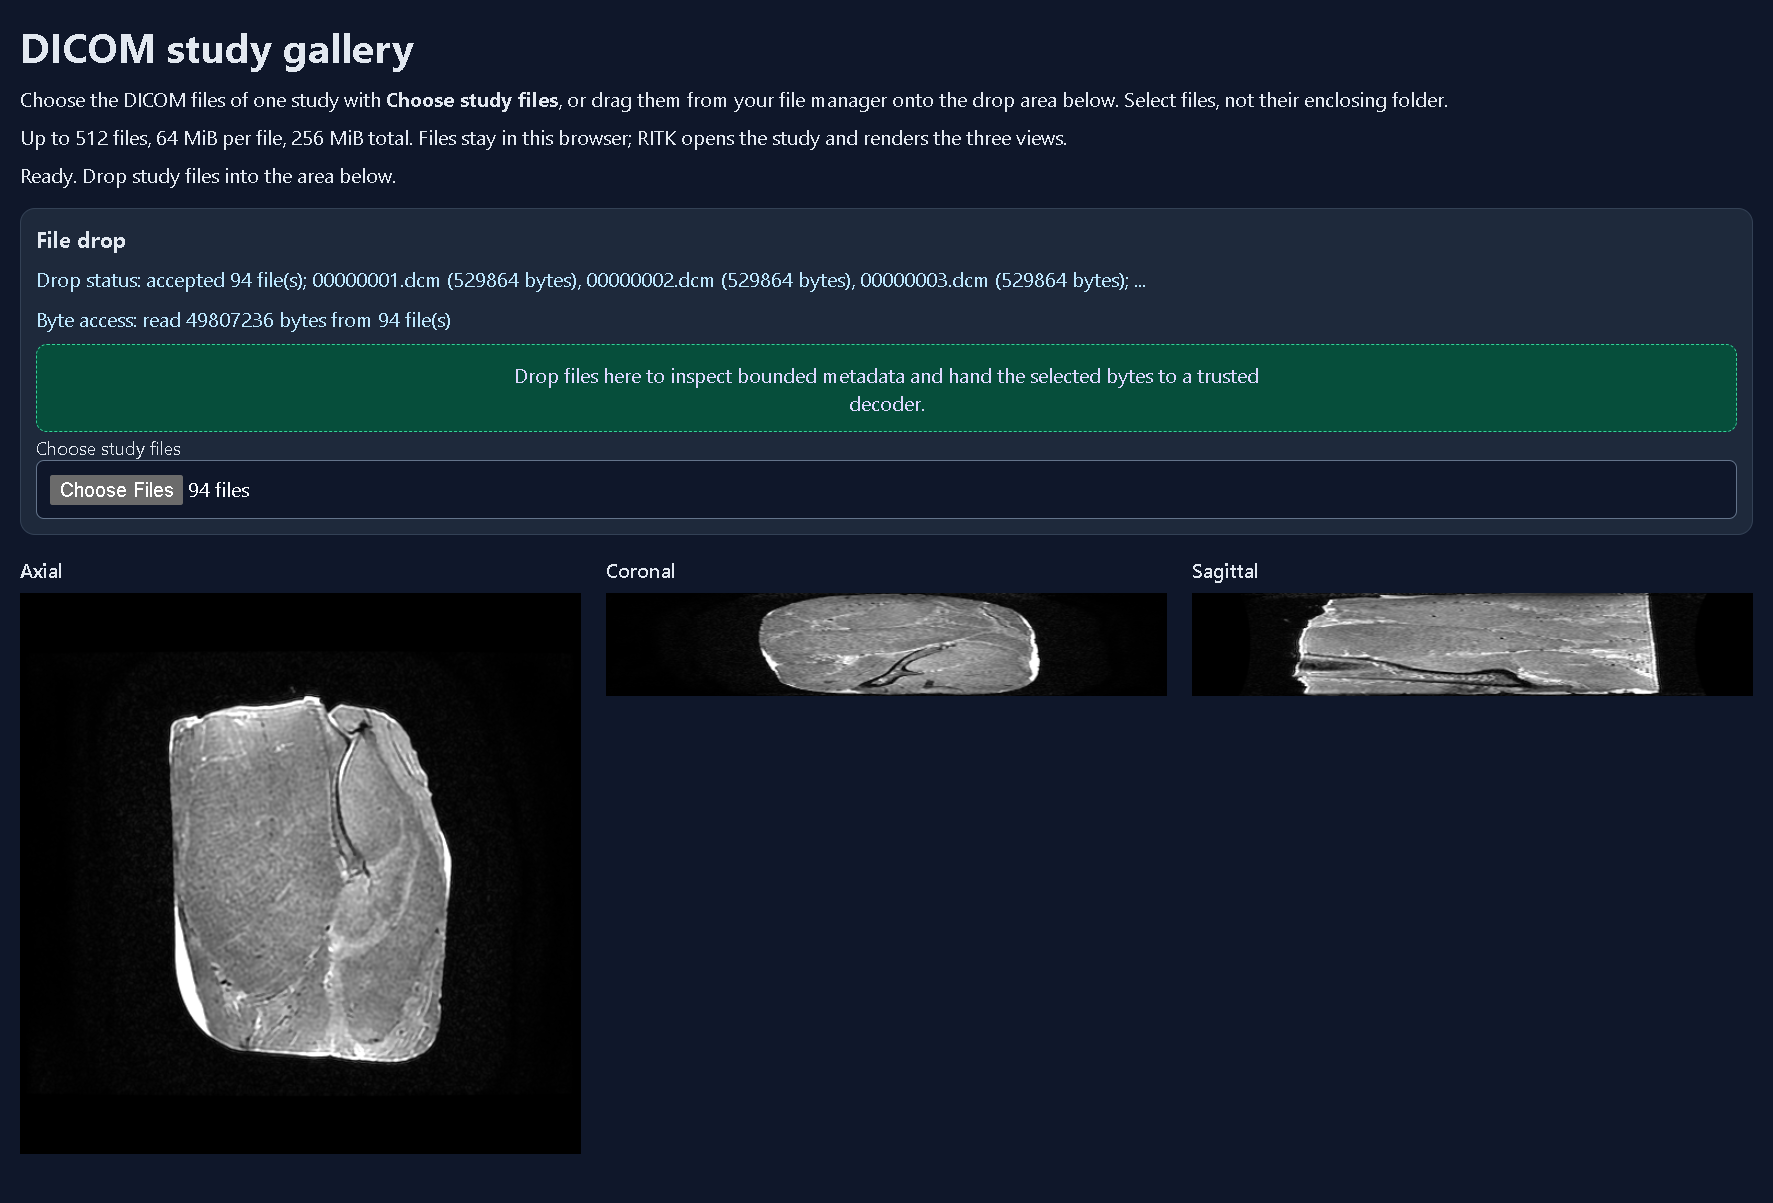
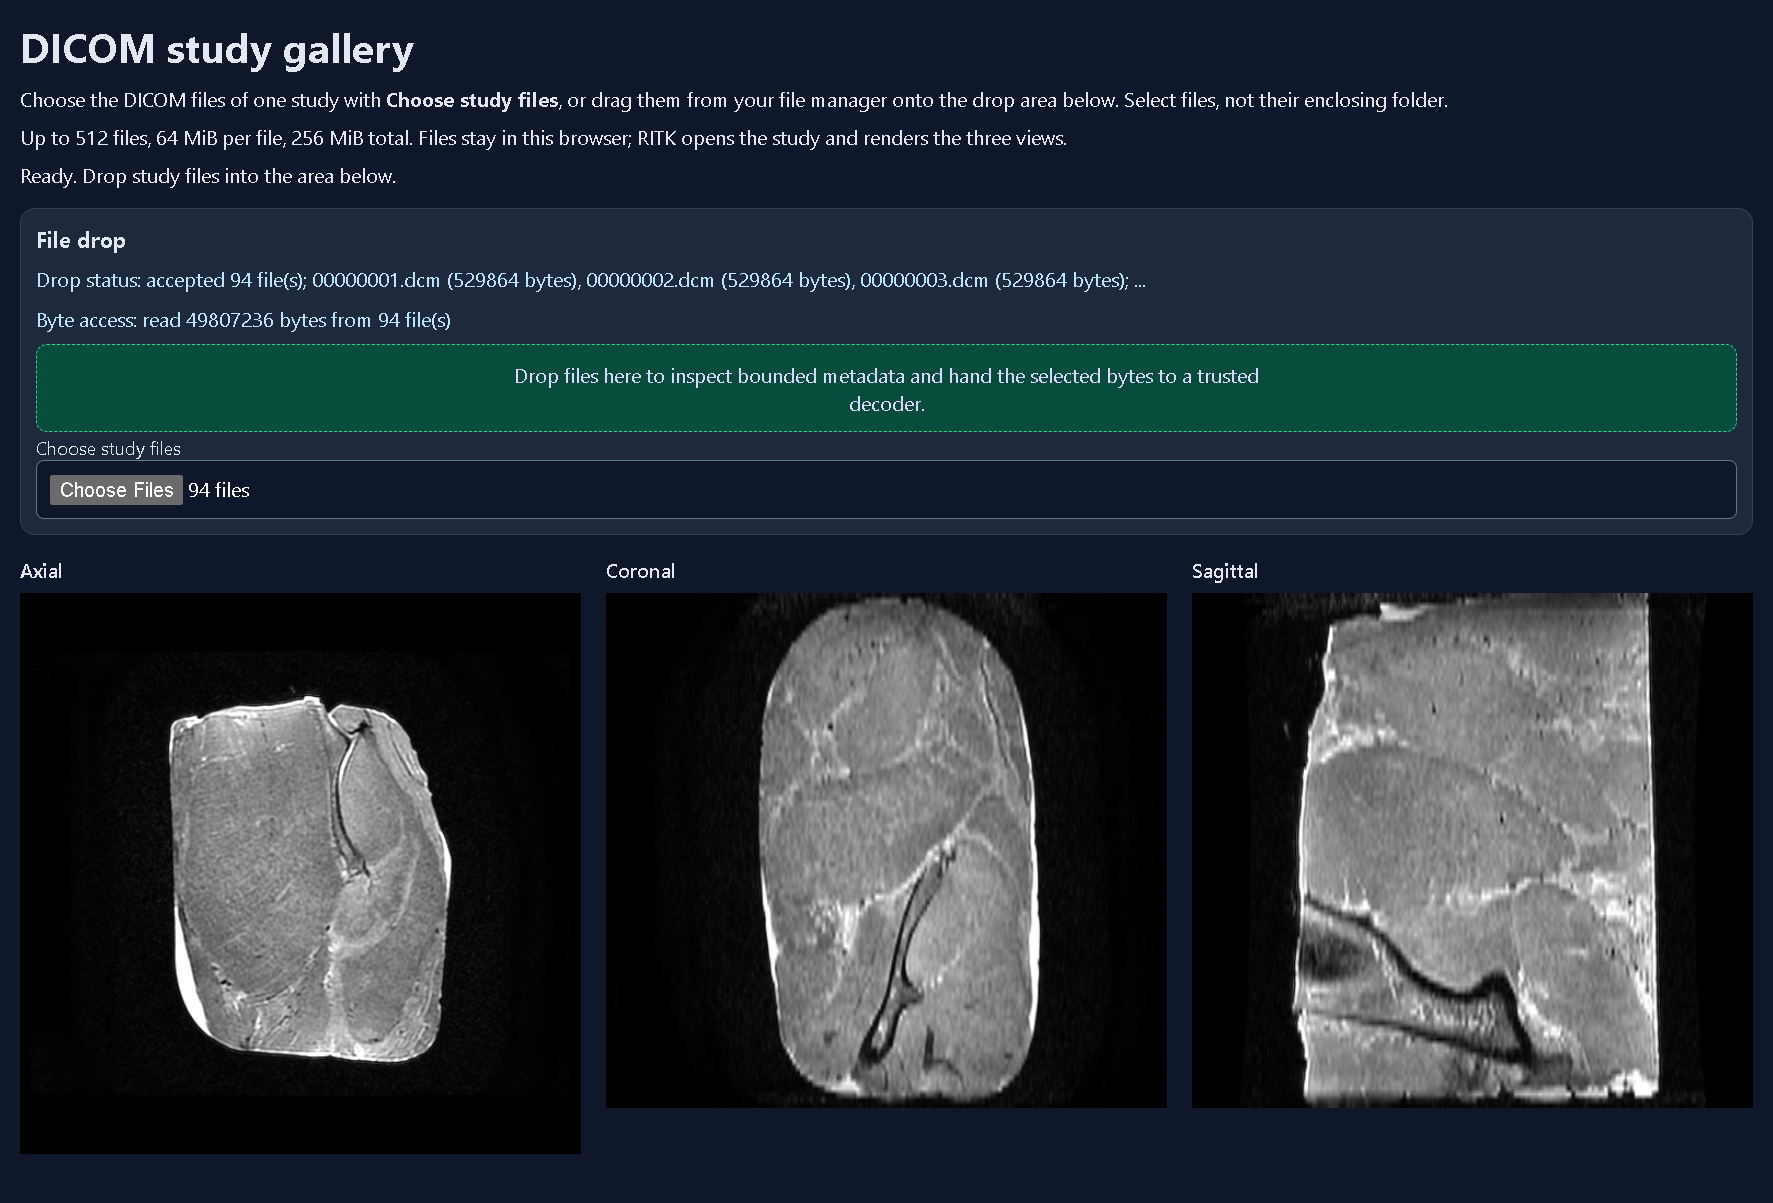
docs(browser): Capture physical MRI proportions
Record the saved 94-file MRI study with physical display geometry, exact RGBA agreement, all cine-rate transitions and 20 validated input-stage PNGs. Bind source assets, traces and independent DICOM header geometry to the captured code.

Item: RITK-BROWSER-ASPECT-001

Changed region(s): [[0.3412, 0.4921, 0.9927, 0.9227]]

diff --git a/docs/manual/dicom-workflow.md b/docs/manual/dicom-workflow.md
@@ -1052,7 +1052,13 @@ closed cleanly.
 ![Actual MRI-DIR T2 study in the running Métis Edge gallery](images/dicom-metis-real-browser-mri-edge-gallery.png)
 
 The gallery screenshot is the live browser viewport after file selection, with the
-decoded axial, coronal, and sagittal anatomy visible. The element captures are
+decoded axial, coronal, and sagittal anatomy visible. The corrected canvases use
+physical spacing: 0.5 mm in-plane and 2.5 mm between slices. Coronal and
+sagittal cover 256 × 235 mm and display at 561 × 515 pixels, replacing the
+compressed 561 × 103 display. The backing 512 × 94 pixels and exact RGBA
+hashes remain unchanged. CSS property publication respects the existing
+security policy, and input bounds follow the displayed canvas dimensions.
+The element captures are
 [axial](images/dicom-metis-real-browser-mri-edge-axial.png),
 [coronal](images/dicom-metis-real-browser-mri-edge-coronal.png), and
 [sagittal](images/dicom-metis-real-browser-mri-edge-sagittal.png). Their canvas
@@ -1060,9 +1066,10 @@ dimensions, non-black counts, RGBA hashes, screenshot hashes, source revisions,
 trusted events, rejection results, and cleanup state are recorded in
 [`dicom-metis-real-browser-mri-edge.json`](images/dicom-metis-real-browser-mri-edge.json).
 The evidence binds Métis revision
-`d0d45561228a8481f0c6e4e3208162db93ccfe01` to RITK revision
-`f5ce647828957ed19fbe5ef68b54f9c40ed11ddf`, the exact Métis driver and gallery
-asset hashes, and the SHA-256 digests of the ignored source traces in the Métis
+`e842ac7214189a1d7aff2f047f71406622bcc0a7` to RITK revision
+`abc098cf155d34f6da58b9cf932a051db793259f`, the exact Métis driver and gallery
+asset hashes, the current harness working-tree source hashes and patch, and
+the SHA-256 digests of the ignored source traces in the Métis
 checkout at `output/browser/cine/{trace.json,canvas-trace.json}`.
 
 The paired cine-rate trace applies six ordered actions to each canvas: focused
@@ -1094,7 +1101,7 @@ python scripts/browser_drop.py --driver-url http://127.0.0.1:9517 `
   --browser-name MicrosoftEdge --input chooser `
   --files D:/atlas/repos/ritk/test_data/2_head_mri_t2/DICOM --pattern '*.dcm' `
   --oracle output/browser/mri-oracle.json `
-  --consumer-revision f5ce647828957ed19fbe5ef68b54f9c40ed11ddf `
+  --consumer-revision abc098cf155d34f6da58b9cf932a051db793259f `
   --canvas-trace output/browser/cine/canvas-trace.json `
   --keyboard-trace cine-rate `
   --canvas-attribute data-ritk-load-state `

diff --git a/backlog.md b/backlog.md
@@ -1,6 +1,6 @@
 <a id="RITK-BROWSER-ASPECT-001"></a>
 ## RITK-BROWSER-ASPECT-001 — Preserve physical slice proportions
-- Status: in-progress; priority: P1; integrator: root; last-update: 2026-09-16; branch: `codex/browser-physical-aspect`.
+- Status: review; priority: P1; integrator: root; last-update: 2026-09-16; branch: `codex/browser-physical-aspect`; code: `abc098cf1`.
 - Scope: RITK browser display and input geometry, regression tests and saved MRI gallery evidence; preserve backing RGBA pixels and generic Metis ownership.
 - Acceptance: each displayed axis uses voxel count times sample spacing; anisotropic geometry tests pass; rebuilt saved-study capture matches physical aspect, pixel oracles and cine trace.
 - Risk: [patch]; dependencies: existing browser presenter and loaded-volume geometry; driver: squashed coronal/sagittal planes in the prior capture.
